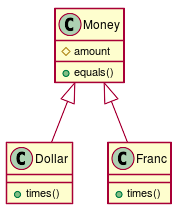
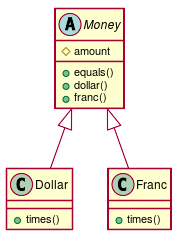
第８章 実装を隠す #EFJ-3

Changed region(s): [[0.0276, 0.0282, 0.9669, 0.9859]]

diff --git a/src/test/java/tdd/money/MoneyTest.java b/src/test/java/tdd/money/MoneyTest.java
@@ -9,22 +9,22 @@ import static org.junit.jupiter.api.Assertions.assertTrue;
 public class MoneyTest {
     @Test
     public void testMultiplication() {
-        Dollar five = new Dollar(5);
-        assertEquals(new Dollar(10), five.times(2));
-        assertEquals(new Dollar(15), five.times(3));
+        Money five = Money.dollar(5);
+        assertEquals(Money.dollar(10), five.times(2));
+        assertEquals(Money.dollar(15), five.times(3));
     }
     @Test
     public void testEquality() {
-        assertTrue(new Dollar(5).equals(new Dollar(5)));
-        assertFalse(new Dollar(5).equals(new Dollar(6)));
-        assertTrue(new Franc(5).equals(new Franc(5)));
-        assertFalse(new Franc(5).equals(new Franc(6)));
-        assertFalse(new Franc(5).equals(new Dollar(5)));
+        assertTrue(Money.dollar(5).equals(Money.dollar(5)));
+        assertFalse(Money.dollar(5).equals(Money.dollar(6)));
+        assertTrue(Money.franc(5).equals(Money.franc(5)));
+        assertFalse(Money.franc(5).equals(Money.franc(6)));
+        assertFalse(Money.franc(5).equals(Money.dollar(5)));
     }
     @Test
     public void testFrancMultiplication() {
-        Franc five = new Franc(5);
-        assertEquals(new Franc(10), five.times(2));
-        assertEquals(new Franc(15), five.times(3));
+        Money five = Money.franc(5);
+        assertEquals(Money.franc(10), five.times(2));
+        assertEquals(Money.franc(15), five.times(3));
     }
 }

diff --git a/src/main/java/tdd/money/Money.java b/src/main/java/tdd/money/Money.java
@@ -1,10 +1,19 @@
 package tdd.money;
 
-public class Money {
+abstract class Money {
     protected int amount;
+    abstract Money times(int multiplier);
     public boolean equals(Object object) {
         Money money = (Money) object;
         return amount == money.amount
                 && getClass().equals(money.getClass());
+    }
+
+    static Money dollar(int amount) {
+        return new Dollar(amount);
+    }
+
+    static Money franc(int amount) {
+        return new Franc((amount));
     }
 }

diff --git a/src/main/java/tdd/money/Dollar.java b/src/main/java/tdd/money/Dollar.java
@@ -4,7 +4,7 @@ public class Dollar extends Money {
     Dollar(int amount) {
         this.amount = amount;
     }
-    Dollar times(int multiplier) {
+    Money times(int multiplier) {
          return new Dollar(amount * multiplier);
     }
 }

diff --git a/src/main/java/tdd/money/Franc.java b/src/main/java/tdd/money/Franc.java
@@ -4,7 +4,7 @@ public class Franc extends Money {
     Franc(int amount) {
         this.amount = amount;
     }
-    Franc times(int multiplier) {
+    Money times(int multiplier) {
         return new Franc(amount * multiplier);
     }
 }

diff --git a/docs/TDD.md b/docs/TDD.md
@@ -36,7 +36,7 @@
 ## コアモデル
   
 
-![](../assets/9caaa2be0c7866a76113ca987a26502f0.png?0.45167724967013534)  
+![](../assets/9caaa2be0c7866a76113ca987a26502f0.png?0.32814828924739525)  
   
 ## TODOリスト
   
@@ -56,4 +56,5 @@
 + [ ] timesの一般化
 + [x] ~~FrancとDollarを比較する~~
 + [ ] 通貨の概念
++ [ ] testFrancMultiplicationを削除する？
   

diff --git a/docs/_tdd.md b/docs/_tdd.md
@@ -45,9 +45,11 @@ class Dollar {
 class Franc {
   + times()  
 }
-class Money {
+abstract Money {
   # amount  
   + equals()
+  + dollar()
+  + franc()
 
 }
 Money <|-- Dollar
@@ -71,3 +73,4 @@ Money <|-- Franc
 + [ ] timesの一般化
 + [x] ~~FrancとDollarを比較する~~
 + [ ] 通貨の概念
++ [ ] testFrancMultiplicationを削除する？
